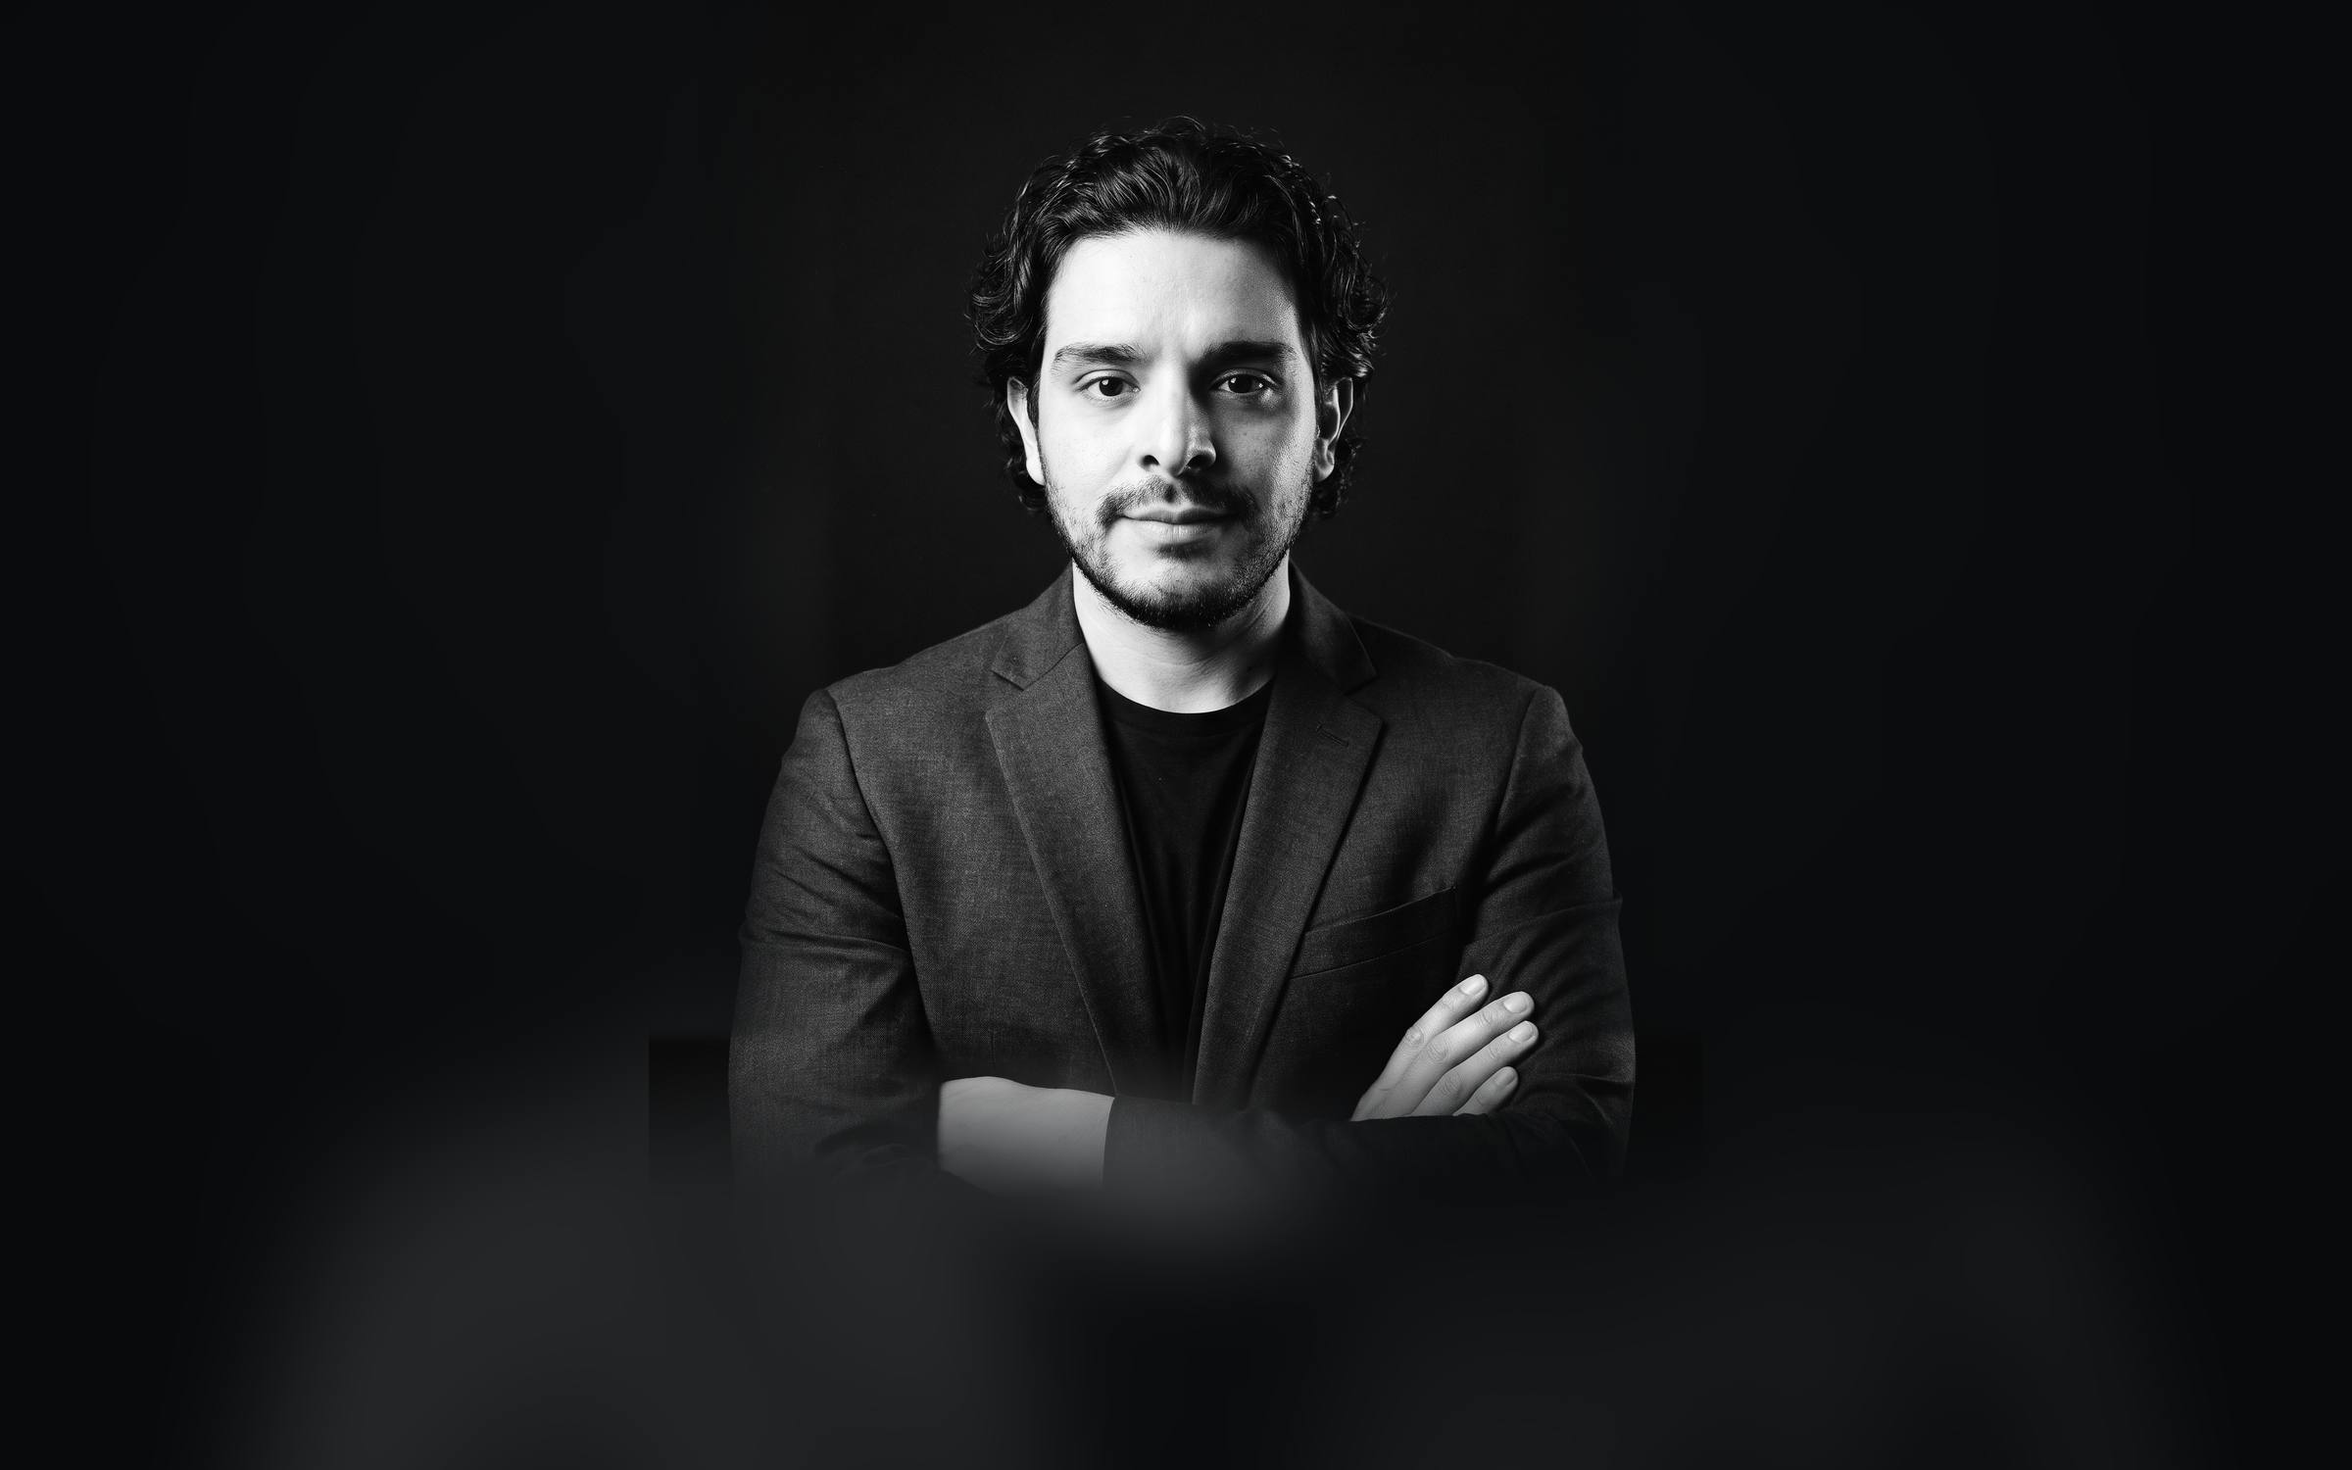
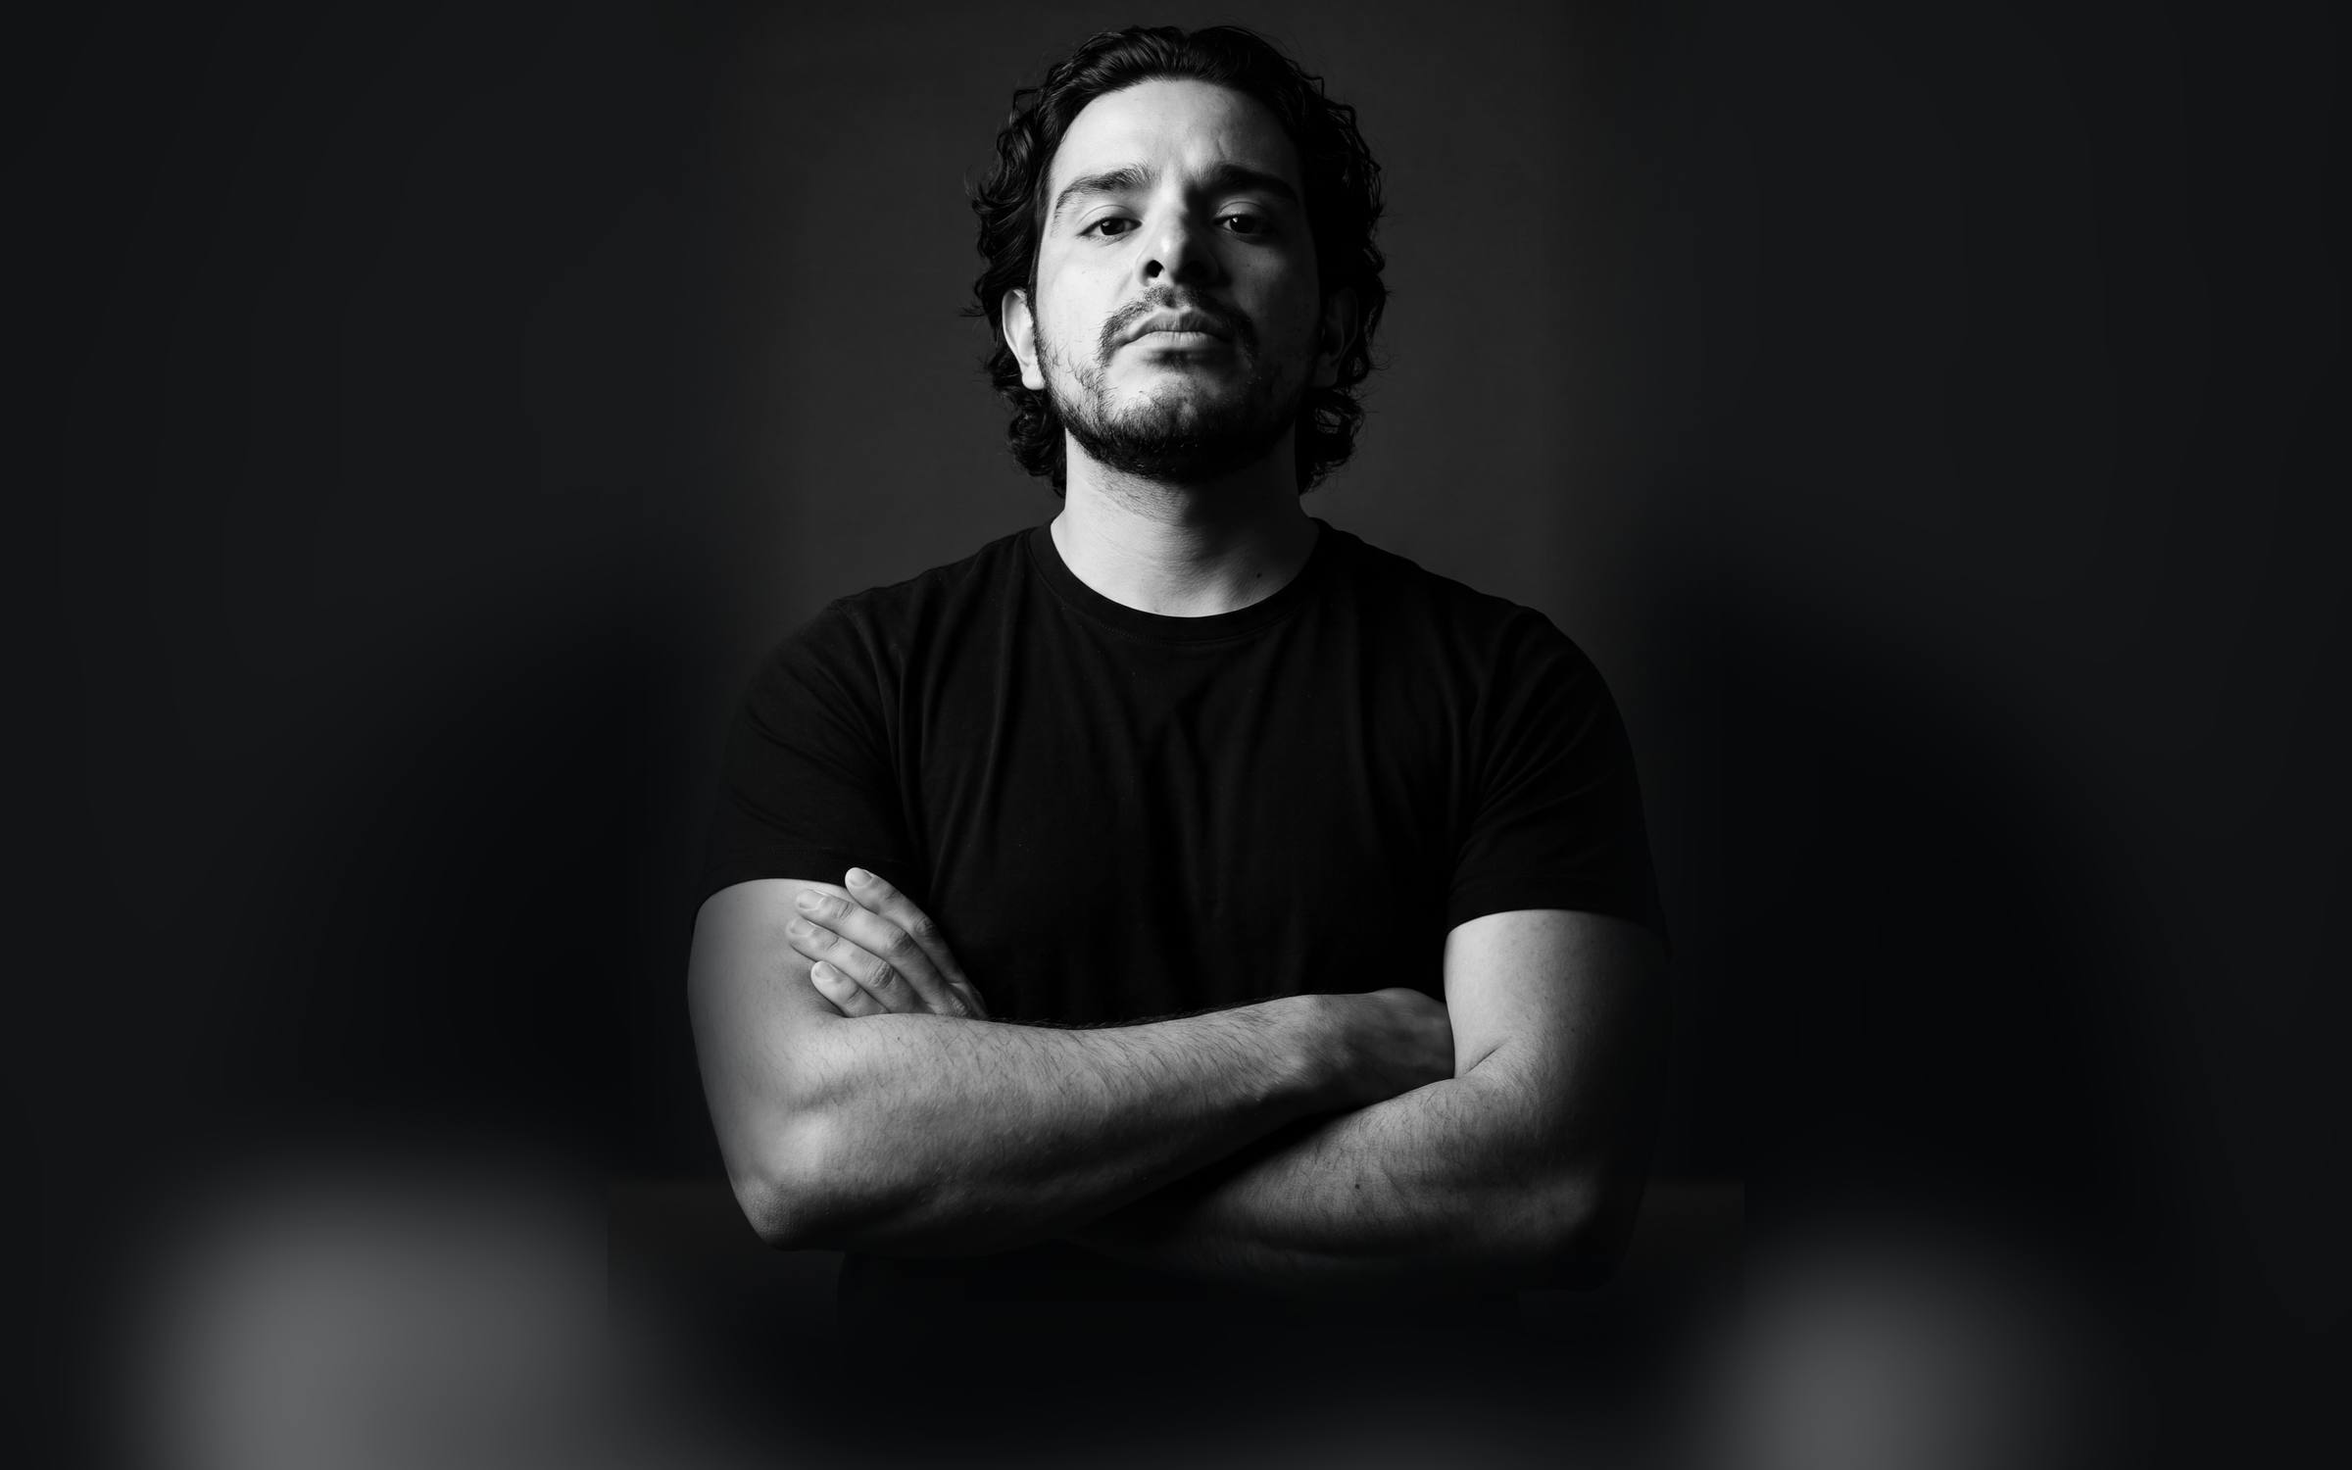
v3: fotos del pack CEO, nombre completo bajo el titular, presentación formal, educación financiera y subconsciente, imágenes creativas en los principios

Changed region(s): [[0.2812, 0.0307, 0.7188, 0.9813], [0.0312, 0.7973, 0.2812, 1.0], [0.7188, 0.8587, 0.875, 1.0]]

diff --git a/v3/index.html b/v3/index.html
@@ -128,6 +128,7 @@ p{margin:0}
 .hero__eyebrow{font-size:24px;font-weight:400;line-height:1.5;color:var(--ink-2);margin-bottom:4px}
 .hero__h1{margin:0 0 20px;font-size:76px;font-weight:500;line-height:1.5;letter-spacing:.0094em;color:#fff;text-wrap:balance}
 .hero__h1 span{display:block}
+.hero__name{font-size:15px;font-weight:600;letter-spacing:.2em;text-transform:uppercase;color:var(--ink-2);margin:0 0 22px}
 .hero .socials{justify-content:center}
 @media (max-width:767px){
   .hero{padding-top:200px;justify-content:flex-end;min-height:100svh;padding-bottom:72px}
@@ -135,14 +136,16 @@ p{margin:0}
   .hero__eyebrow{font-size:18px}
   .hero__h1{font-size:40px;font-weight:700;line-height:1.35;letter-spacing:-.005em;margin-bottom:16px}
   .hero .socials__label{display:none}
+  .hero__name{font-size:12px;letter-spacing:.18em;margin-bottom:14px}
 }
 @media (min-width:768px) and (max-width:1199px){.hero__h1{font-size:60px}}
 /* laptops de pantalla baja: el texto baja para no tapar la cara */
 @media (min-width:768px) and (max-height:820px){
   .hero{justify-content:flex-end;padding-bottom:40px}
   .hero__bg img{object-position:50% 0}
-  .hero__h1{font-size:60px;line-height:1.3;margin-bottom:16px}
+  .hero__h1{font-size:60px;line-height:1.3;margin-bottom:14px}
   .hero__eyebrow{font-size:20px}
+  .hero__name{margin-bottom:16px}
   .state:not(.state--final) .state__inner{margin-top:16vh}
 }
 
@@ -311,6 +314,12 @@ p{margin:0}
 .modal__close svg{width:16px;height:16px}
 .modal h3{margin:0 0 6px;font-size:28px;font-weight:500}
 .modal__sub{color:var(--ink-3);margin-bottom:28px}
+.bio{display:grid;grid-template-columns:168px 1fr;gap:28px;align-items:start;margin-bottom:32px}
+.bio img{width:100%;height:auto;border-radius:16px;filter:grayscale(1)}
+.bio__text p{font-size:16px;line-height:1.6;color:#e2e2e2;margin-bottom:14px}
+.bio__text p:last-child{margin-bottom:0}
+.modal__h4{margin:0 0 16px;font-size:14px;font-weight:600;letter-spacing:.14em;text-transform:uppercase;color:var(--cian)}
+@media (max-width:599px){.bio{grid-template-columns:1fr}.bio img{max-width:150px}}
 .tl{list-style:none;margin:0;padding:0;display:grid;gap:18px}
 .tl li{display:grid;grid-template-columns:92px 1fr;gap:16px;padding-bottom:18px;border-bottom:1px dashed var(--line)}
 .tl li:last-child{border:0}
@@ -362,15 +371,18 @@ p{margin:0}
   <div class="hero__bg" aria-hidden="true"><picture><source media="(max-width:767px)" srcset="/fotos/v3-hero-m.jpg"><img src="/fotos/v3-hero.jpg" alt="" width="2400" height="1500" fetchpriority="high"></picture></div>
   <p class="hero__eyebrow rv">Hola, soy el CEO y cofundador de Northpoint</p>
   <h1 class="hero__h1 rv rv-d1"><span>Una vida se vive</span><span>creando, no consumiendo.</span></h1>
-  <div class="socials rv rv-d2" data-socials><span class="socials__label">Sígueme en:</span></div>
+  <p class="hero__name rv rv-d2">Gregorio Sánchez Calderón</p>
+  <div class="socials rv rv-d3" data-socials><span class="socials__label">Sígueme en:</span></div>
 </section>
 
 <!-- ============ DECLARACIÓN ============ -->
 <section class="state" id="historia">
   <div class="state__bg" aria-hidden="true"><img src="/fotos/v3-skyline.jpg" alt="" width="2400" height="1500" loading="lazy"></div>
   <div class="state__inner">
-    <h2 class="h2 rv">Abogado, inversionista, fundador de NEXUS Digital y CEO de Northpoint.</h2>
-    <button class="btn rv rv-d1" type="button" data-historia>Conoce mi historia <svg viewBox="0 0 24 24" fill="none" stroke="currentColor" stroke-width="2.2" stroke-linecap="round" stroke-linejoin="round" aria-hidden="true"><path d="M9 6l6 6-6 6"/></svg></button>
+    <p class="eyebrow rv" style="color:#fff">Quién soy</p>
+    <h2 class="h2 rv rv-d1">Abogado, inversionista, fundador de NEXUS Digital y CEO de Northpoint.</h2>
+    <p class="state__p rv rv-d2">Gregorio Sánchez Calderón es Licenciado en Derecho por la Universidad Anáhuac Querétaro, con práctica en fideicomisos, contratos y protección patrimonial. Dirige Northpoint, grupo mexicano de inversión, patrimonio, tecnología, educación, ciudades y filantropía.</p>
+    <button class="btn rv rv-d3" type="button" data-historia>Presentación completa <svg viewBox="0 0 24 24" fill="none" stroke="currentColor" stroke-width="2.2" stroke-linecap="round" stroke-linejoin="round" aria-hidden="true"><path d="M9 6l6 6-6 6"/></svg></button>
   </div>
 </section>
 
@@ -417,7 +429,7 @@ p{margin:0}
         </article>
         <article class="car__item prod">
           <div class="prod__cover"><small>Educación</small><span class="prod__num">04</span><svg class="prod__star" viewBox="0 0 24 24" aria-hidden="true"><path d="M12 1l2.2 8.8L23 12l-8.8 2.2L12 23l-2.2-8.8L1 12l8.8-2.2z"/></svg></div>
-          <div><p class="prod__eyebrow">Academia</p><h3 class="prod__title">Aprender a operar como la mesa.</h3><p class="prod__desc">Clases a su ritmo y programas con certificado. El riesgo se define primero; después, todo lo demás.</p><div class="prod__cta"><a class="btn btn--white" href="https://northpointcapital.io/" target="_blank" rel="noopener">Conocer <svg viewBox="0 0 24 24" fill="none" stroke="currentColor" stroke-width="2.2" stroke-linecap="round" stroke-linejoin="round" aria-hidden="true"><path d="M9 6l6 6-6 6"/></svg></a><span class="prod__meta">A su ritmo</span></div></div>
+          <div><p class="prod__eyebrow">Educación financiera</p><h3 class="prod__title">Entender el dinero y desbloquear los patrones del subconsciente que frenan la abundancia.</h3><p class="prod__desc">Programas de educación financiera para ordenar las finanzas personales y trabajar las creencias que impiden tener abundancia. Lo financiero primero; lo espiritual, también.</p><div class="prod__cta"><a class="btn btn--white" href="https://northpointcapital.io/" target="_blank" rel="noopener">Conocer <svg viewBox="0 0 24 24" fill="none" stroke="currentColor" stroke-width="2.2" stroke-linecap="round" stroke-linejoin="round" aria-hidden="true"><path d="M9 6l6 6-6 6"/></svg></a><span class="prod__meta">En diseño</span></div></div>
         </article>
         <article class="car__item prod">
           <div class="prod__cover"><small>Ciudades</small><span class="prod__num">05</span><svg class="prod__star" viewBox="0 0 24 24" aria-hidden="true"><path d="M12 1l2.2 8.8L23 12l-8.8 2.2L12 23l-2.2-8.8L1 12l8.8-2.2z"/></svg></div>
@@ -450,13 +462,13 @@ p{margin:0}
     <div class="car car--bleed" data-car>
       <div class="car__track" tabindex="0" aria-label="Ocho principios, desliza para ver más">
         <article class="car__item tall"><img src="/fotos/v3-p1.jpg" alt="" width="720" height="1280" loading="lazy"><span class="tall__num">01</span><h3 class="tall__h">Reglas antes que decisiones.</h3><p class="tall__p">Toda decisión importante tiene una regla escrita antes. Si no hay regla, no hay decisión: hay impulso.</p></article>
-        <article class="car__item tall"><span class="tall__num">02</span><h3 class="tall__h">El riesgo se define primero.</h3><p class="tall__p">La pérdida máxima se fija antes de abrir cualquier posición, en los mercados y en los negocios.</p></article>
+        <article class="car__item tall"><img src="/fotos/v3-c2.jpg" alt="" width="720" height="1280" loading="lazy"><span class="tall__num">02</span><h3 class="tall__h">El riesgo se define primero.</h3><p class="tall__p">La pérdida máxima se fija antes de abrir cualquier posición, en los mercados y en los negocios.</p></article>
         <article class="car__item tall"><img src="/fotos/v3-p2.jpg" alt="" width="720" height="1280" loading="lazy"><span class="tall__num">03</span><h3 class="tall__h">Realidad sobre narrativa.</h3><p class="tall__p">Un negocio sin números es una historia que me cuento. Mido, comparo y acepto lo que dicen los datos, aunque incomoden.</p></article>
-        <article class="car__item tall"><span class="tall__num">04</span><h3 class="tall__h">Responsabilidad total.</h3><p class="tall__p">Yo soy el único responsable de la realidad que vivo. Nadie decide por mí y nadie carga mi cuenta.</p></article>
+        <article class="car__item tall"><img src="/fotos/v3-c4.jpg" alt="" width="720" height="1280" loading="lazy"><span class="tall__num">04</span><h3 class="tall__h">Responsabilidad total.</h3><p class="tall__p">Yo soy el único responsable de la realidad que vivo. Nadie decide por mí y nadie carga mi cuenta.</p></article>
         <article class="car__item tall"><img src="/fotos/v3-p3.jpg" alt="" width="720" height="1280" loading="lazy"><span class="tall__num">05</span><h3 class="tall__h">El miedo es un empujón.</h3><p class="tall__p">Cuando algo me da miedo es porque importa. Lo hago con miedo, con reglas y con testigos.</p></article>
-        <article class="car__item tall"><span class="tall__num">06</span><h3 class="tall__h">Elijo mi mesa a propósito.</h3><p class="tall__p">Soy el promedio de las personas con las que me junto. Aprendo de quien ya subió la montaña que yo apenas veo de lejos.</p></article>
+        <article class="car__item tall"><img src="/fotos/v3-c6.jpg" alt="" width="720" height="1280" loading="lazy"><span class="tall__num">06</span><h3 class="tall__h">Elijo mi mesa a propósito.</h3><p class="tall__p">Soy el promedio de las personas con las que me junto. Aprendo de quien ya subió la montaña que yo apenas veo de lejos.</p></article>
         <article class="car__item tall"><img src="/fotos/v3-p4.jpg" alt="" width="720" height="1280" loading="lazy"><span class="tall__num">07</span><h3 class="tall__h">Ambición al máximo, estado actual exacto.</h3><p class="tall__p">Cuento la visión con toda la confianza y el presente sin un gramo de exageración. Si alguien lo verifica, resulta cierto.</p></article>
-        <article class="car__item tall"><span class="tall__num">08</span><h3 class="tall__h">1 % cada día, disfrutando el proceso.</h3><p class="tall__p">No persigo la cima: subo. El objetivo es el mismo, el plan cambia, y el proceso se disfruta.</p></article>
+        <article class="car__item tall"><img src="/fotos/v3-c8.jpg" alt="" width="720" height="1280" loading="lazy"><span class="tall__num">08</span><h3 class="tall__h">1 % cada día, disfrutando el proceso.</h3><p class="tall__p">No persigo la cima: subo. El objetivo es el mismo, el plan cambia, y el proceso se disfruta.</p></article>
       </div>
       <div class="car__nav">
         <button class="car__btn" type="button" data-prev aria-label="Anterior"><svg viewBox="0 0 24 24" fill="none" stroke="currentColor" stroke-width="2.2" stroke-linecap="round" stroke-linejoin="round"><path d="M15 6l-6 6 6 6"/></svg></button>
@@ -534,7 +546,7 @@ p{margin:0}
       </div>
       <div class="foot__col">
         <h4>Quién soy</h4>
-        <button type="button" data-historia>Mi historia</button>
+        <button type="button" data-historia>Presentación</button>
         <a href="#principios">Principios</a>
         <a href="#ideas">24 ideas</a>
       </div>
@@ -560,8 +572,18 @@ p{margin:0}
   <div class="modal__bg" data-close></div>
   <div class="modal__box">
     <button class="modal__close" type="button" data-close aria-label="Cerrar"><svg viewBox="0 0 24 24" fill="none" stroke="currentColor" stroke-width="2.2" stroke-linecap="round"><path d="M6 6l12 12M18 6L6 18"/></svg></button>
-    <h3 id="modalTitle">Mi historia</h3>
-    <p class="modal__sub">Un timelapse, no una lista de logros. El objetivo es el mismo; el plan cambia cuando la realidad lo pide.</p>
+    <h3 id="modalTitle">Gregorio Sánchez Calderón</h3>
+    <p class="modal__sub">CEO y cofundador de Northpoint · Querétaro, México</p>
+    <div class="bio">
+      <img src="/fotos/v3-bio.jpg" alt="Retrato de Gregorio Sánchez Calderón" width="900" height="1125" loading="lazy">
+      <div class="bio__text">
+        <p>Gregorio Sánchez Calderón es abogado, inversionista y empresario mexicano. Licenciado en Derecho por la Universidad Anáhuac Querétaro, inició su carrera en el ámbito jurídico financiero e inmobiliario, donde se especializó en fideicomisos, contratos y estructuras de protección patrimonial.</p>
+        <p>Es CEO y cofundador de Northpoint, grupo mexicano que desarrolla y opera proyectos de inversión, patrimonio, tecnología, educación, ciudades y filantropía. Encabeza la estrategia de inversión y la estructura patrimonial del grupo, y es autor de los memos de mercado de su mesa.</p>
+        <p>Es fundador de NEXUS Digital, estudio que aplica inteligencia artificial y automatización a negocios reales. Desde Northpoint Cities impulsa Anthropos, un estudio conceptual para la primera ciudad concebida desde cero para la era de la inteligencia artificial.</p>
+        <p>Su trabajo se rige por principios escritos que revisa cada trimestre contra la realidad.</p>
+      </div>
+    </div>
+    <h4 class="modal__h4">Trayectoria</h4>
     <ol class="tl">
       <li><b>2020</b><div><strong>Empiezo Derecho en la Anáhuac Querétaro.</strong><p>Cinco años leyendo contratos y fideicomisos. Ahí aprendí la pregunta que todavía uso para todo: quién es dueño de qué, y bajo qué reglas.</p></div></li>
       <li><b>2024</b><div><strong>Fincalosa y REMAX, en Morelia.</strong><p>Asesor jurídico financiero e inmobiliario. Fideicomisos y contratos todos los días, para que cada operación fuera transparente y segura.</p></div></li>
